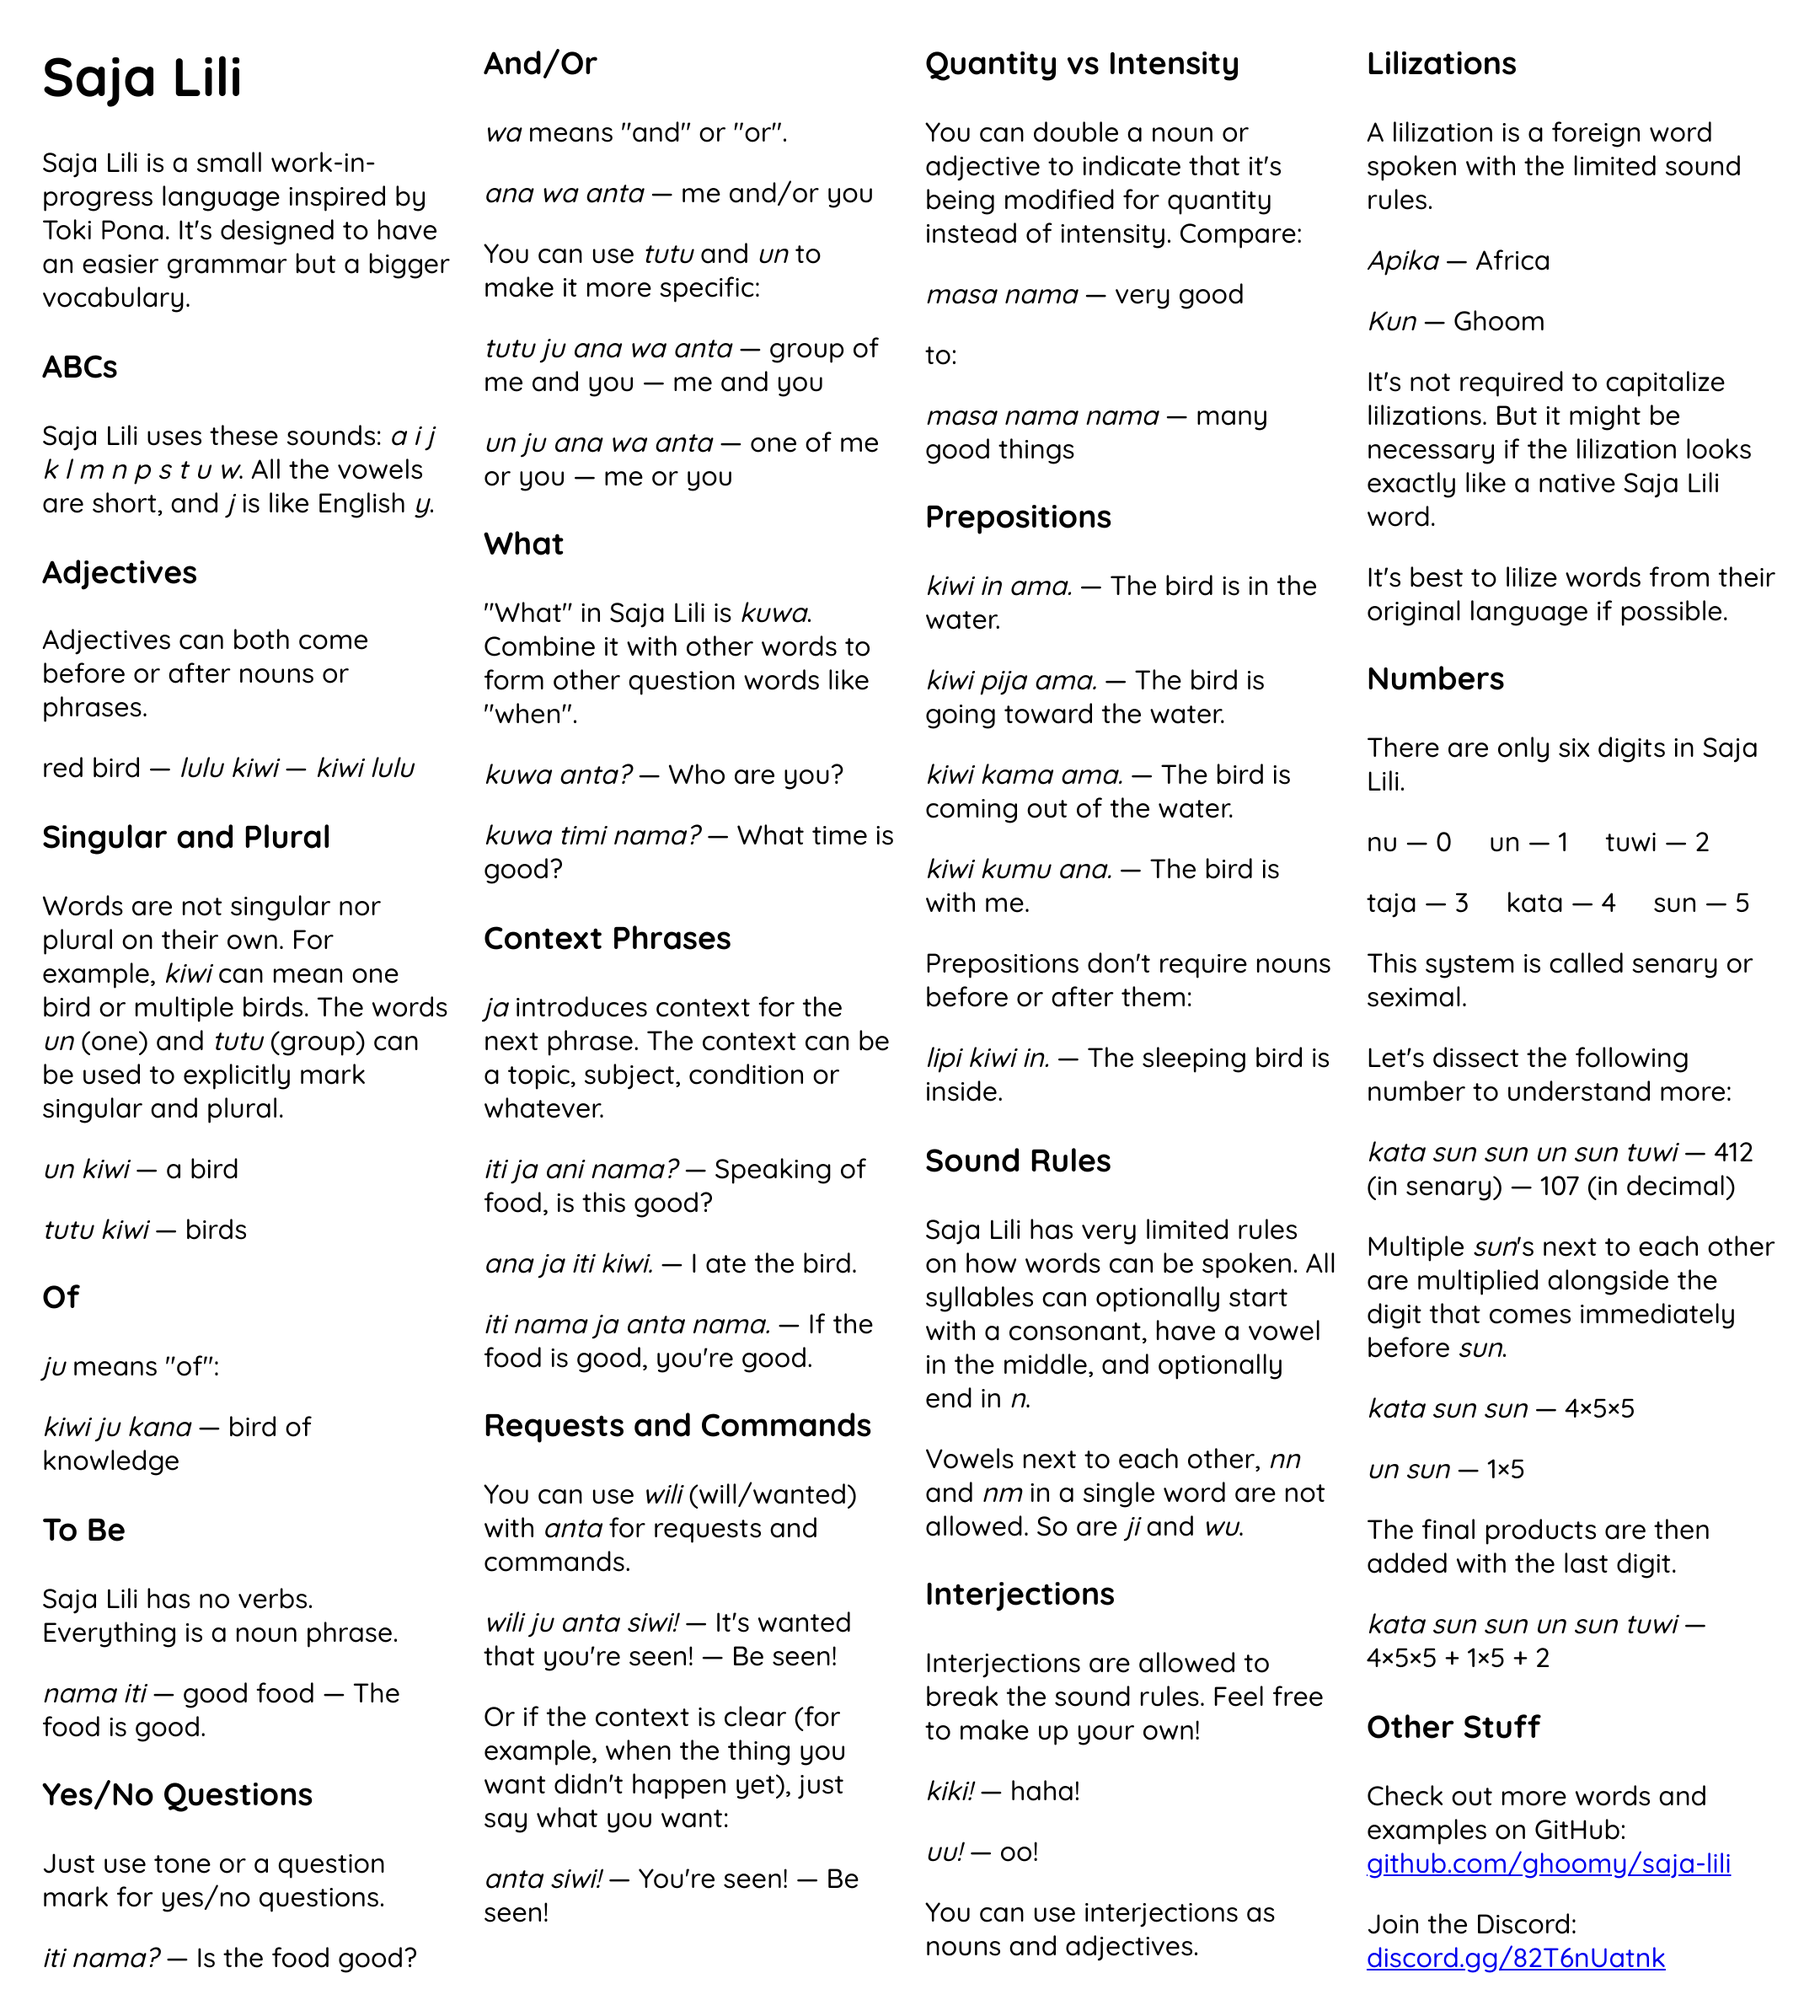
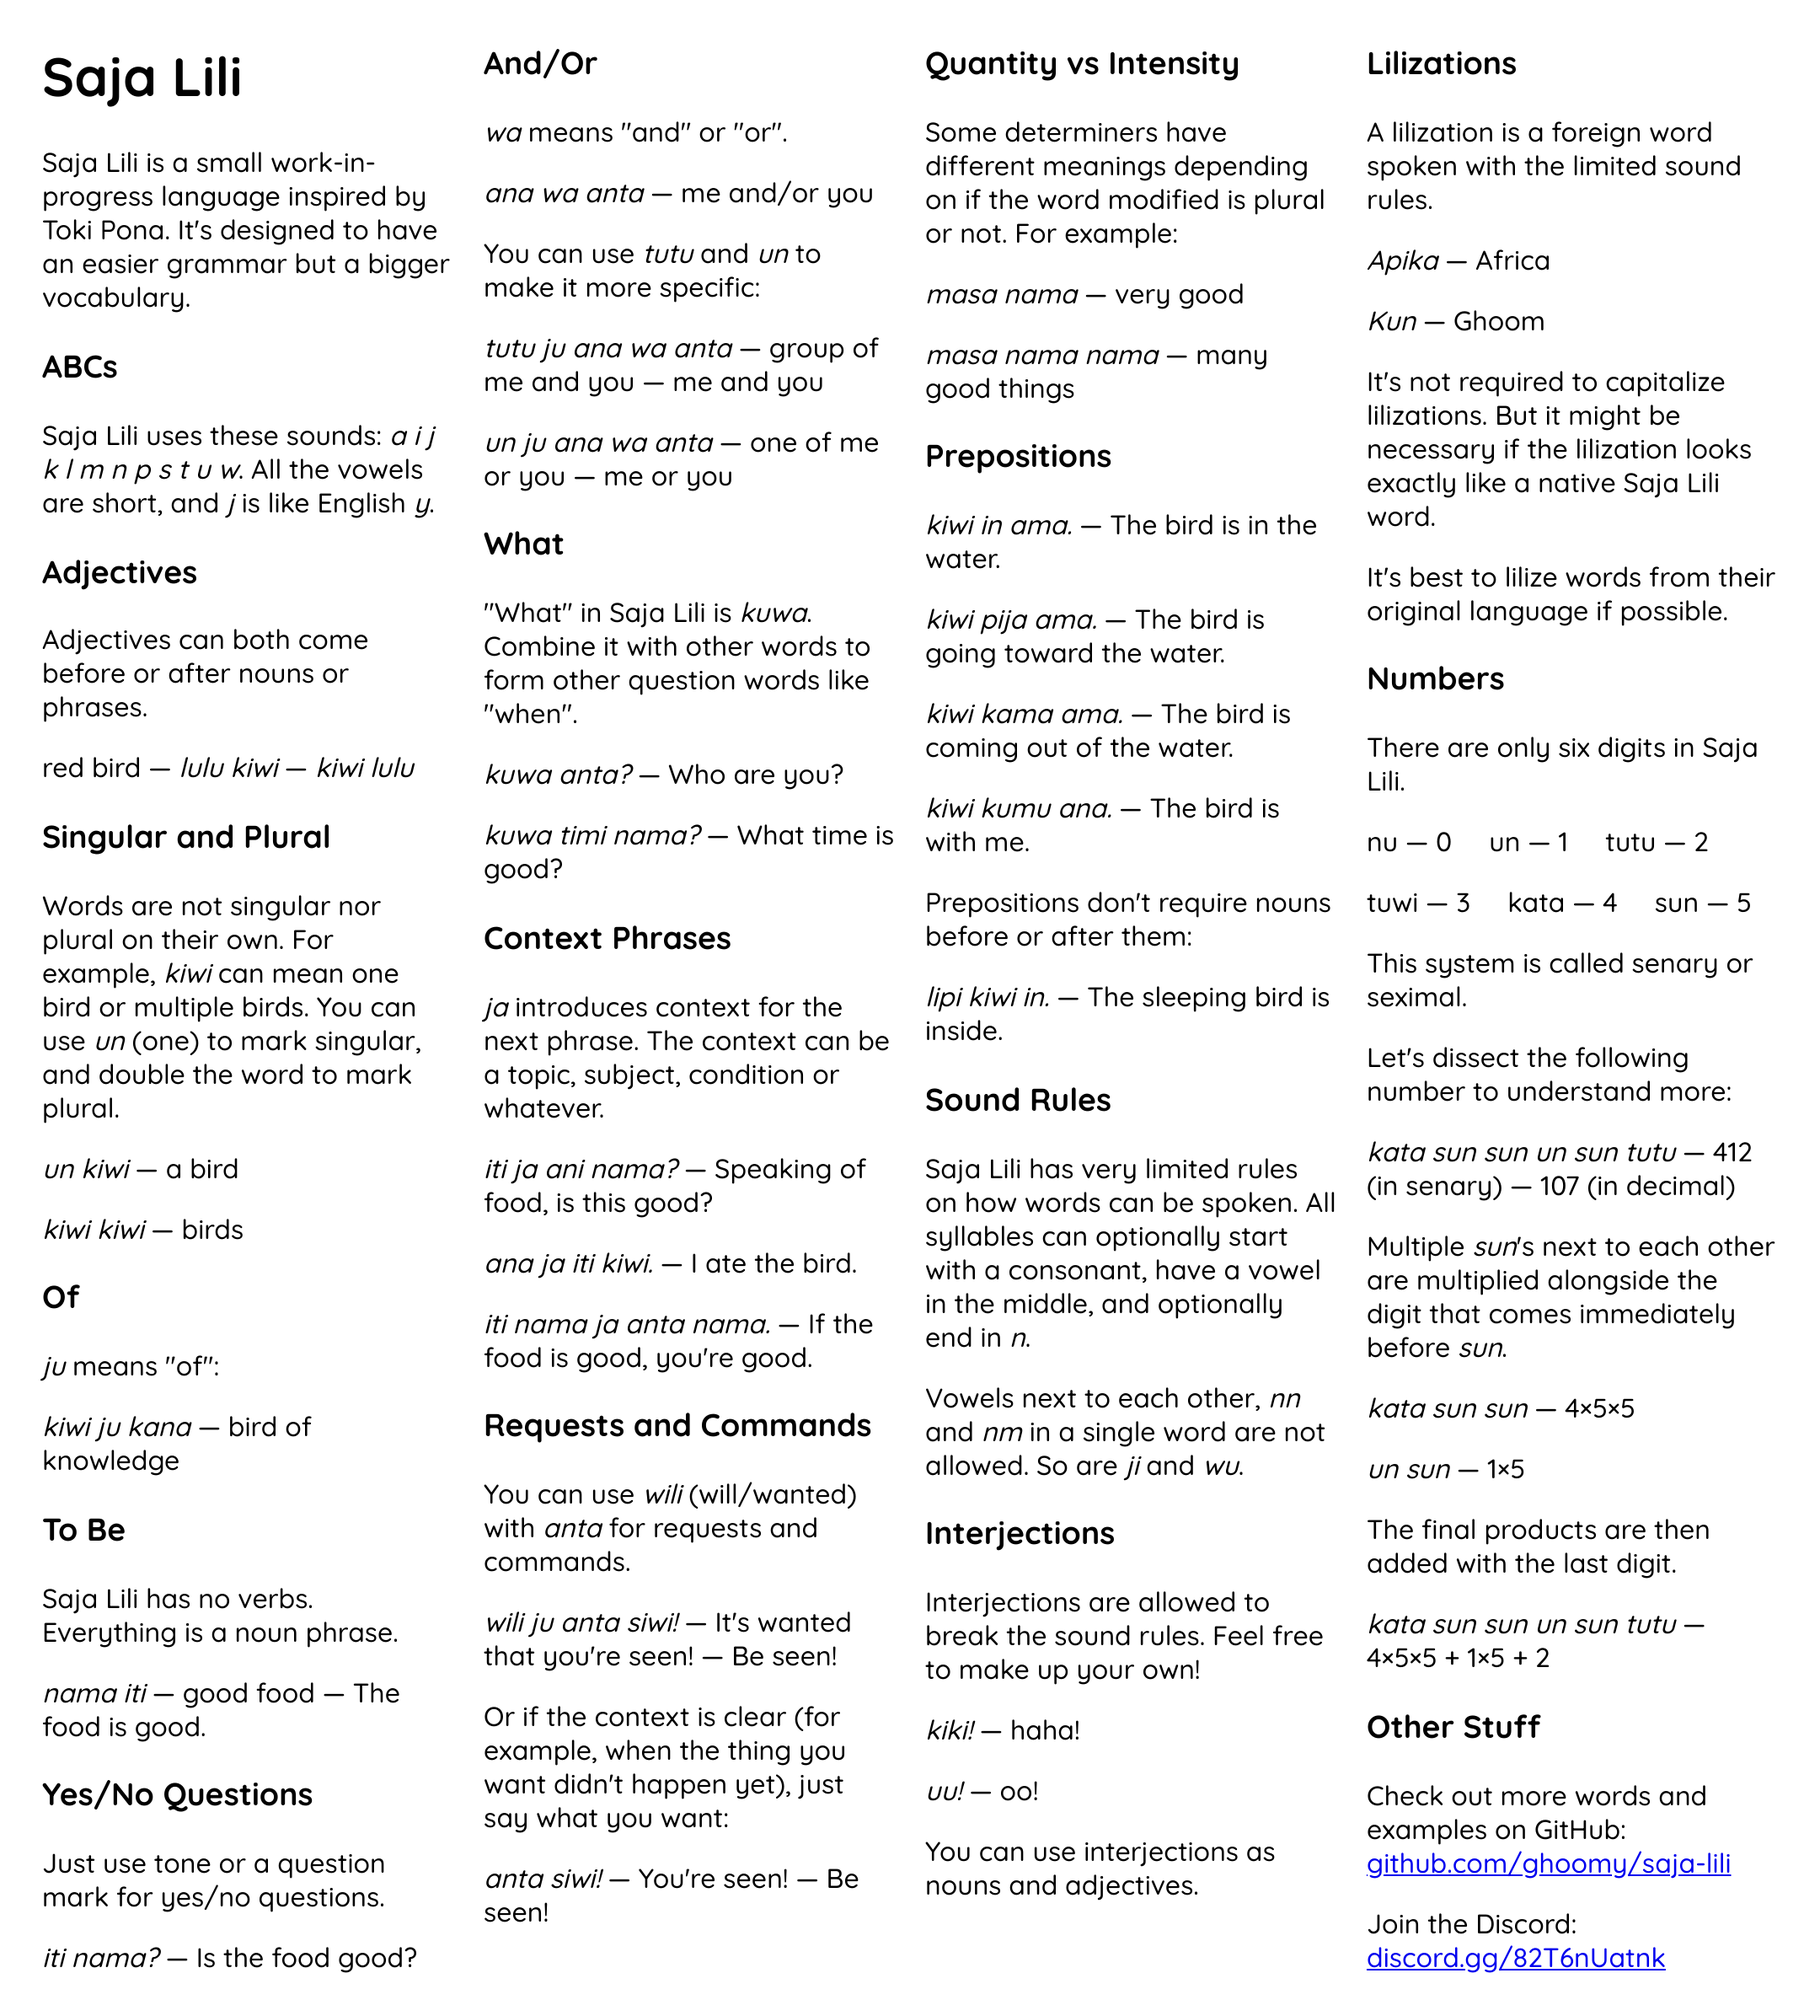
...

diff --git a/README.md b/README.md
@@ -28,11 +28,11 @@ red bird — *lulu kiwi* — *kiwi lulu*
 
 ### Singular and Plural
 
-Words are not singular nor plural on their own. For example, *kiwi* can mean one bird or multiple birds. The words *un* (one) and *tutu* (group) can be used to explicitly mark singular and plural.
+Words are not singular nor plural on their own. For example, *kiwi* can mean one bird or multiple birds. You can use *un* (one) to mark singular, and double the word to mark plural.
 
 *un kiwi* — a bird
 
-*tutu kiwi* — birds
+*kiwi kiwi* — birds
 
 ### Of
 
@@ -100,11 +100,9 @@ Or if the context is clear (for example, when the thing you want didn't happen y
 
 ### Quantity vs Intensity
 
-You can double a noun or adjective to indicate that it's being modified for quantity instead of intensity. Compare:
+Some determiners have different meanings depending on if the word modified is plural or not. For example:
 
 *masa nama* — very good
-
-to:
 
 *masa nama nama* — many good things
 
@@ -157,15 +155,15 @@ It's best to lilize words from their original language if possible.
 
 There are only six digits in Saja Lili.
 
-nu — 0 &nbsp;&nbsp;&nbsp; un — 1 &nbsp;&nbsp;&nbsp; tuwi — 2
+nu — 0 &nbsp;&nbsp;&nbsp; un — 1 &nbsp;&nbsp;&nbsp; tutu — 2
 
-taja — 3 &nbsp;&nbsp;&nbsp; kata — 4 &nbsp;&nbsp;&nbsp; sun — 5
+tuwi — 3 &nbsp;&nbsp;&nbsp; kata — 4 &nbsp;&nbsp;&nbsp; sun — 5
 
 This system is called senary or seximal.
 
 Let's dissect the following number to understand more:
 
-*kata sun sun un sun tuwi* — 412 (in senary) — 107 (in decimal)
+*kata sun sun un sun tutu* — 412 (in senary) — 107 (in decimal)
 
 Multiple *sun*'s next to each other are multiplied alongside the digit that comes immediately before *sun*.
 
@@ -175,7 +173,7 @@ Multiple *sun*'s next to each other are multiplied alongside the digit that come
 
 The final products are then added with the last digit.
 
-*kata sun sun un sun tuwi* — 4×5×5 + 1×5 + 2
+*kata sun sun un sun tutu* — 4×5×5 + 1×5 + 2
 
 ### Other Stuff
 

diff --git a/dictionary.md b/dictionary.md
@@ -22,21 +22,19 @@ To search a word or definition, press Ctrl+F then type it (press Enter if you st
 
 **ata** — any / thing
 
-**tutu** — group
-
 **ala** — whole
 
-**masa** — very / much / many
+**masa** — very (with non-plural) — much / many (with plural)
 
-**mawa** — more
+**mawa** — more intense (with non-plural) — more quantity (with plural)
 
-**mata** — most
+**mata** — most intense (with non-plural) — most quantity (with plural)
 
-**lisi** — not very / some / few
+**lisi** — not very (with non-plural) — / some / few (with plural)
 
-**liwi** — less / fewer
+**liwi** — less intense (with non-plural) — (with plural) less quantity
 
-**liti** — least
+**liti** — least intense (with non-plural) — least quantity (with plural)
 
 **sumu** — only
 
@@ -278,9 +276,9 @@ These are just ***some*** interjections I thought of:
 
 **un** — one
 
-**tuwi** — two
+**tutu** — two
 
-**taja** — three
+**tuwi** — three
 
 **kata** — four
 
